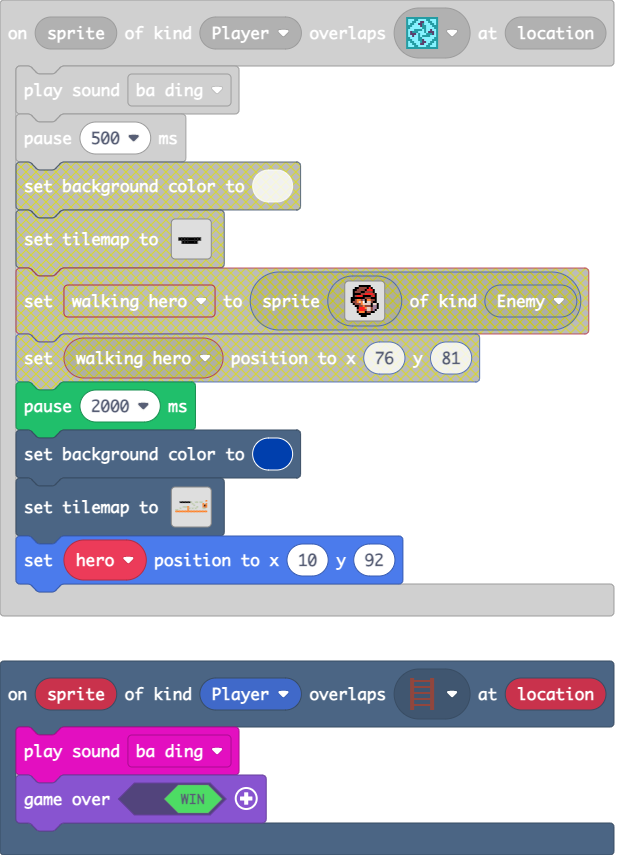
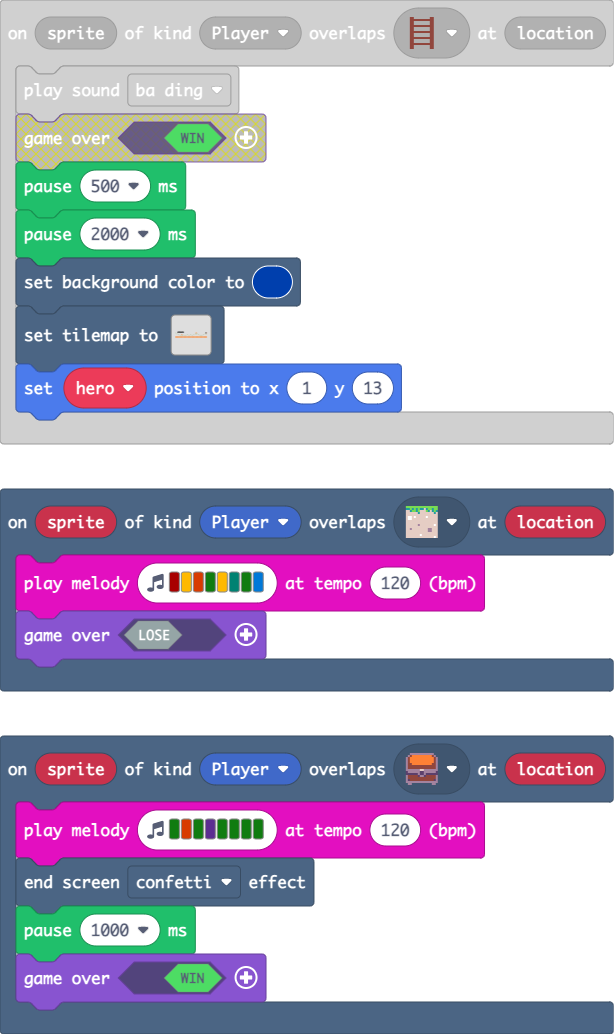
level 3 added

diff --git a/tilemap.g.ts b/tilemap.g.ts
@@ -151,6 +151,55 @@ namespace myTiles {
 . . . . . . . . . . . . . . . . 
 . . . . . . . . . . . . . . . . 
 `, [myTiles.transparency16], TileScale.Sixteen);
+            case "level8":
+            case "level8":return tiles.createTilemap(hex`1000100000000000000000000000000000000000000000000000000000000000000000000000000000000000000000000000000000000000000000000000000000000000000000000000000000000000000000000000000000000000000000000000000000000000000000000000000000000000000000000000000000000000000000000000000000000000000000000000000000000000000000000000000000000000000000000000000000000000000000000000000000000000000000000000000000000000000000000000000000000000000000000000000000000000000000000000000000000000000000000000000000000000000000000000000000000000`, img`
+. . . . . . . . . . . . . . . . 
+. . . . . . . . . . . . . . . . 
+. . . . . . . . . . . . . . . . 
+. . . . . . . . . . . . . . . . 
+. . . . . . . . . . . . . . . . 
+. . . . . . . . . . . . . . . . 
+. . . . . . . . . . . . . . . . 
+. . . . . . . . . . . . . . . . 
+. . . . . . . . . . . . . . . . 
+. . . . . . . . . . . . . . . . 
+. . . . . . . . . . . . . . . . 
+. . . . . . . . . . . . . . . . 
+. . . . . . . . . . . . . . . . 
+. . . . . . . . . . . . . . . . 
+. . . . . . . . . . . . . . . . 
+. . . . . . . . . . . . . . . . 
+`, [myTiles.transparency16], TileScale.Sixteen);
+            case "level9":
+            case "level9":return tiles.createTilemap(hex`1000100000000000000000000000000000000000000000000000000000000000000000000000000000000000000000000000000000000000000000000000000000000000000000000000000000000000000000000000000000000000000000000000000000000000000000000000000000000000000000000000000000000000000000000000000000000000000000000000000000000000000000000000000000000000000000000000000000000000000000000000000000000000000000000000000000000000000000000000000000000000000000000000000000000000000000000000000000000000000000000000000000000000000000000000000000000000`, img`
+. . . . . . . . . . . . . . . . 
+. . . . . . . . . . . . . . . . 
+. . . . . . . . . . . . . . . . 
+. . . . . . . . . . . . . . . . 
+. . . . . . . . . . . . . . . . 
+. . . . . . . . . . . . . . . . 
+. . . . . . . . . . . . . . . . 
+. . . . . . . . . . . . . . . . 
+. . . . . . . . . . . . . . . . 
+. . . . . . . . . . . . . . . . 
+. . . . . . . . . . . . . . . . 
+. . . . . . . . . . . . . . . . 
+. . . . . . . . . . . . . . . . 
+. . . . . . . . . . . . . . . . 
+. . . . . . . . . . . . . . . . 
+. . . . . . . . . . . . . . . . 
+`, [myTiles.transparency16], TileScale.Sixteen);
+            case "level10":
[1 lines of base64/hex data omitted]
+........................................
+........................................
+2.......................................
+..2......................222.........2.2
+....2..........2...2...2.....2.....2....
+......2.22.2.2...2...2.........2.2......
+........................................
+........................................
+`, [myTiles.transparency16,myTiles.tile7,myTiles.tile8,myTiles.tile10,myTiles.tile15,sprites.castle.tilePath3,sprites.dungeon.hazardLava0,sprites.castle.tilePath1,sprites.dungeon.chestClosed,sprites.castle.tilePath2,myTiles.tile14], TileScale.Sixteen);
         }
         return null;
     })

diff --git a/images.g.ts b/images.g.ts
@@ -21,78 +21,6 @@ namespace myImages {
 . . . f f f f f f f f f f . . . 
 . . . . f f . . . f f f . . . . 
 `;
-            case "image2":return img`
-. . . . . f f f f f f . . . . . 
-. . . f f e e e e f 2 f . . . . 
-. . f f e e e e f 2 2 2 f . . . 
-. . f e e e f f e e e e f . . . 
-. . f f f f e e 2 2 2 2 e f . . 
-. . f e 2 2 2 f f f f e 2 f . . 
-. f f f f f f f e e e f f f . . 
-. f f e 4 4 e b f 4 4 e e f . . 
-. f e e 4 d 4 1 f d d e f f . . 
-. . f e e e 4 d d d d f d d f . 
-. . . f f e e 4 e e e f b b f . 
-. . . . f 2 2 2 4 d d e b b f . 
-. . . . e 2 2 2 e d d e b f . . 
-. . . . f 4 4 4 f e e f f . . . 
-. . . . . f f f f f f . . . . . 
-. . . . . . f f f . . . . . . . 
-`;
-            case "image3":return img`
-. . . . . f f f f f f . . . . . 
-. . . f f e e e e f 2 f . . . . 
-. . f f e e e e f 2 2 2 f . . . 
-. . f e e e f f e e e e f . . . 
-. . f f f f e e 2 2 2 2 e f . . 
-. . f e 2 2 2 f f f f e 2 f . . 
-. f f f f f f f e e e f f f . . 
-. f f e 4 4 e b f 4 4 e e f . . 
-. f e e 4 d 4 1 f d d e f f . . 
-. . f e e e 4 d d d d f d d f . 
-. . . f f e e 4 e e e f b b f . 
-. . . . f 2 2 2 4 d d e b b f . 
-. . . . e 2 2 2 e d d e b f . . 
-. . . . f 4 4 4 f e e f f . . . 
-. . . . . f f f f f f . . . . . 
-. . . . . . f f f . . . . . . . 
-`;
-            case "image4":return img`
-. . . . . f f f f f f . . . . . 
-. . . f f e e e e f 2 f . . . . 
-. . f f e e e e f 2 2 2 f . . . 
-. . f e e e f f e e e e f . . . 
-. . f f f f e e 2 2 2 2 e f . . 
-. . f e 2 2 2 f f f f e 2 f . . 
-. f f f f f f f e e e f f f . . 
-. f f e 4 4 e b f 4 4 e e f . . 
-. f e e 4 d 4 1 f d d e f f . . 
-. . f e e e 4 d d d d f d d f . 
-. . . f f e e 4 e e e f b b f . 
-. . . . f 2 2 2 4 d d e b b f . 
-. . . . e 2 2 2 e d d e b f . . 
-. . . . f 4 4 4 f e e f f . . . 
-. . . . . f f f f f f . . . . . 
-. . . . . . f f f . . . . . . . 
-`;
-            case "image5":return img`
-. . . . . f f f f f f . . . . . 
-. . . f f e e e e f 2 f . . . . 
-. . f f e e e e f 2 2 2 f . . . 
-. . f e e e f f e e e e f . . . 
-. . f f f f e e 2 2 2 2 e f . . 
-. . f e 2 2 2 f f f f e 2 f . . 
-. f f f f f f f e e e f f f . . 
-. f f e 4 4 e b f 4 4 e e f . . 
-. f e e 4 d 4 1 f d d e f f . . 
-. . f e e e 4 d d d d f d d f . 
-. . . f f e e 4 e e e f b b f . 
-. . . . f 2 2 2 4 d d e b b f . 
-. . . . e 2 2 2 e d d e b f . . 
-. . . . f 4 4 4 f e e f f . . . 
-. . . . . f f f f f f . . . . . 
-. . . . . . f f f . . . . . . . 
-`;
         }
         return null;
     })

diff --git a/main.ts b/main.ts
@@ -3,15 +3,29 @@ namespace SpriteKind {
 }
 scene.onOverlapTile(SpriteKind.Player, assets.tile`myTile1`, function (sprite, location) {
     music.baDing.play()
-    game.over(true)
+    pause(500)
+    pause(2000)
+    scene.setBackgroundColor(8)
+    tiles.setTilemap(tilemap`level10`)
+    hero.setPosition(1, 13)
 })
 controller.up.onEvent(ControllerButtonEvent.Pressed, function () {
     if (hero.vy == 0) {
         hero.vy = -125
     }
 })
+scene.onOverlapTile(SpriteKind.Player, sprites.castle.tilePath2, function (sprite, location) {
+    music.playMelody("C5 A B G A F G E ", 120)
+    game.over(false)
+})
 scene.onOverlapTile(SpriteKind.Player, sprites.dungeon.hazardLava0, function (sprite, location) {
     game.over(false)
+})
+scene.onOverlapTile(SpriteKind.Player, sprites.dungeon.chestClosed, function (sprite, location) {
+    music.playMelody("G B G D G G G G ", 120)
+    effects.confetti.endScreenEffect()
+    pause(1000)
+    game.over(true)
 })
 scene.onOverlapTile(SpriteKind.Player, sprites.dungeon.collectibleInsignia, function (sprite, location) {
     music.baDing.play()
